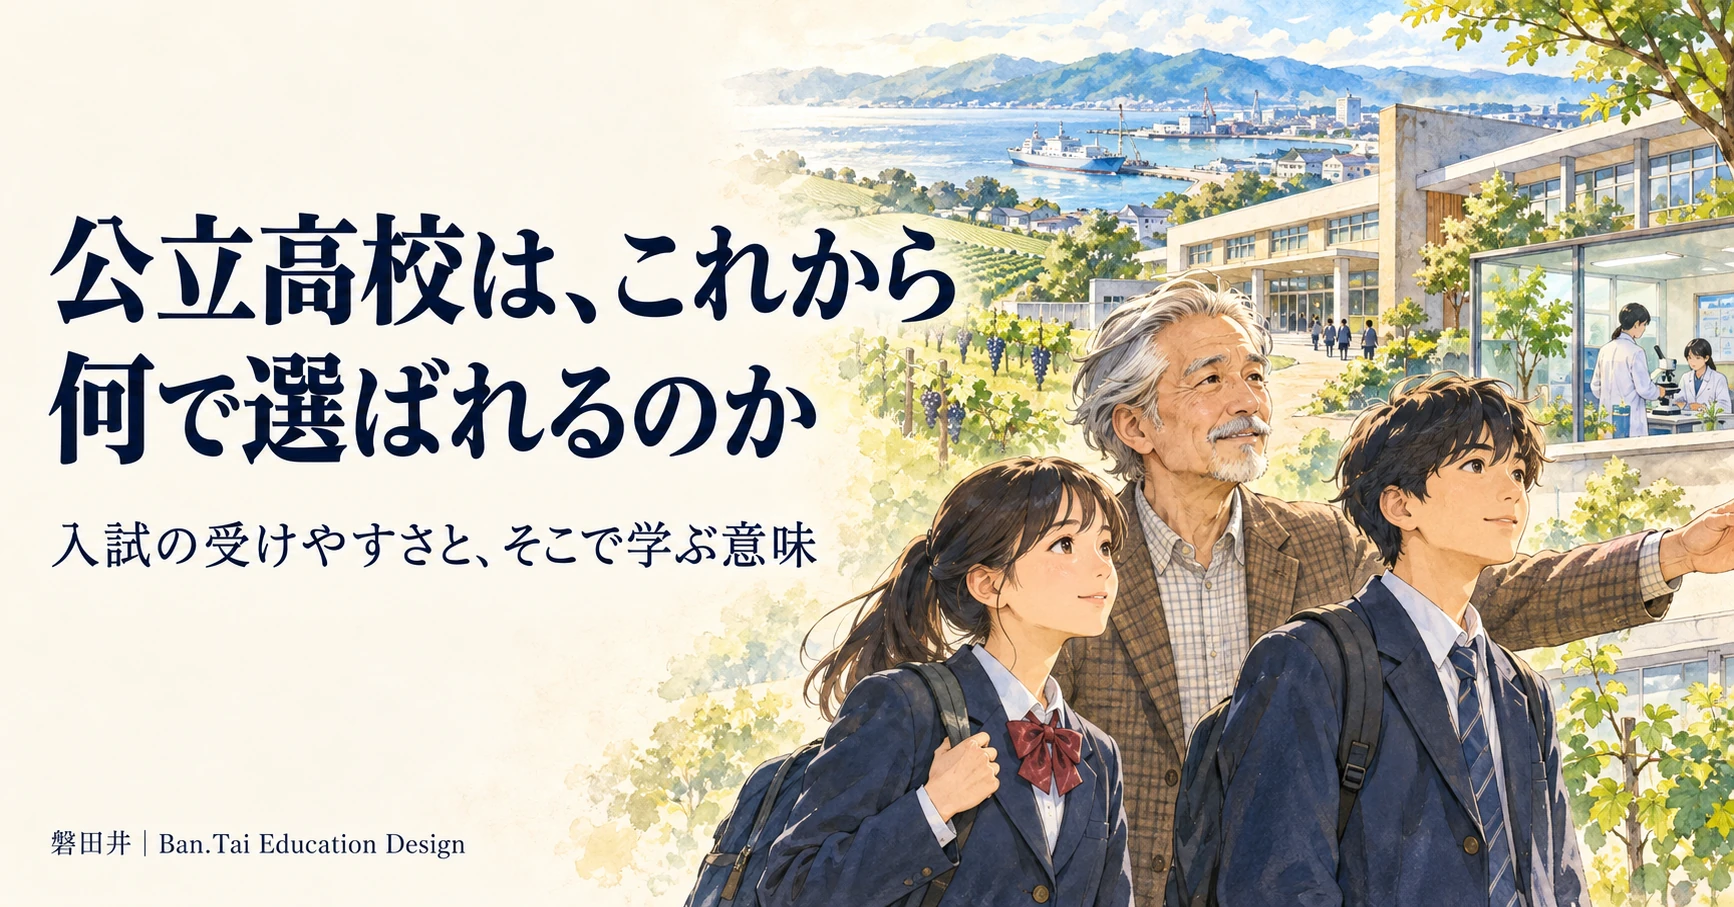
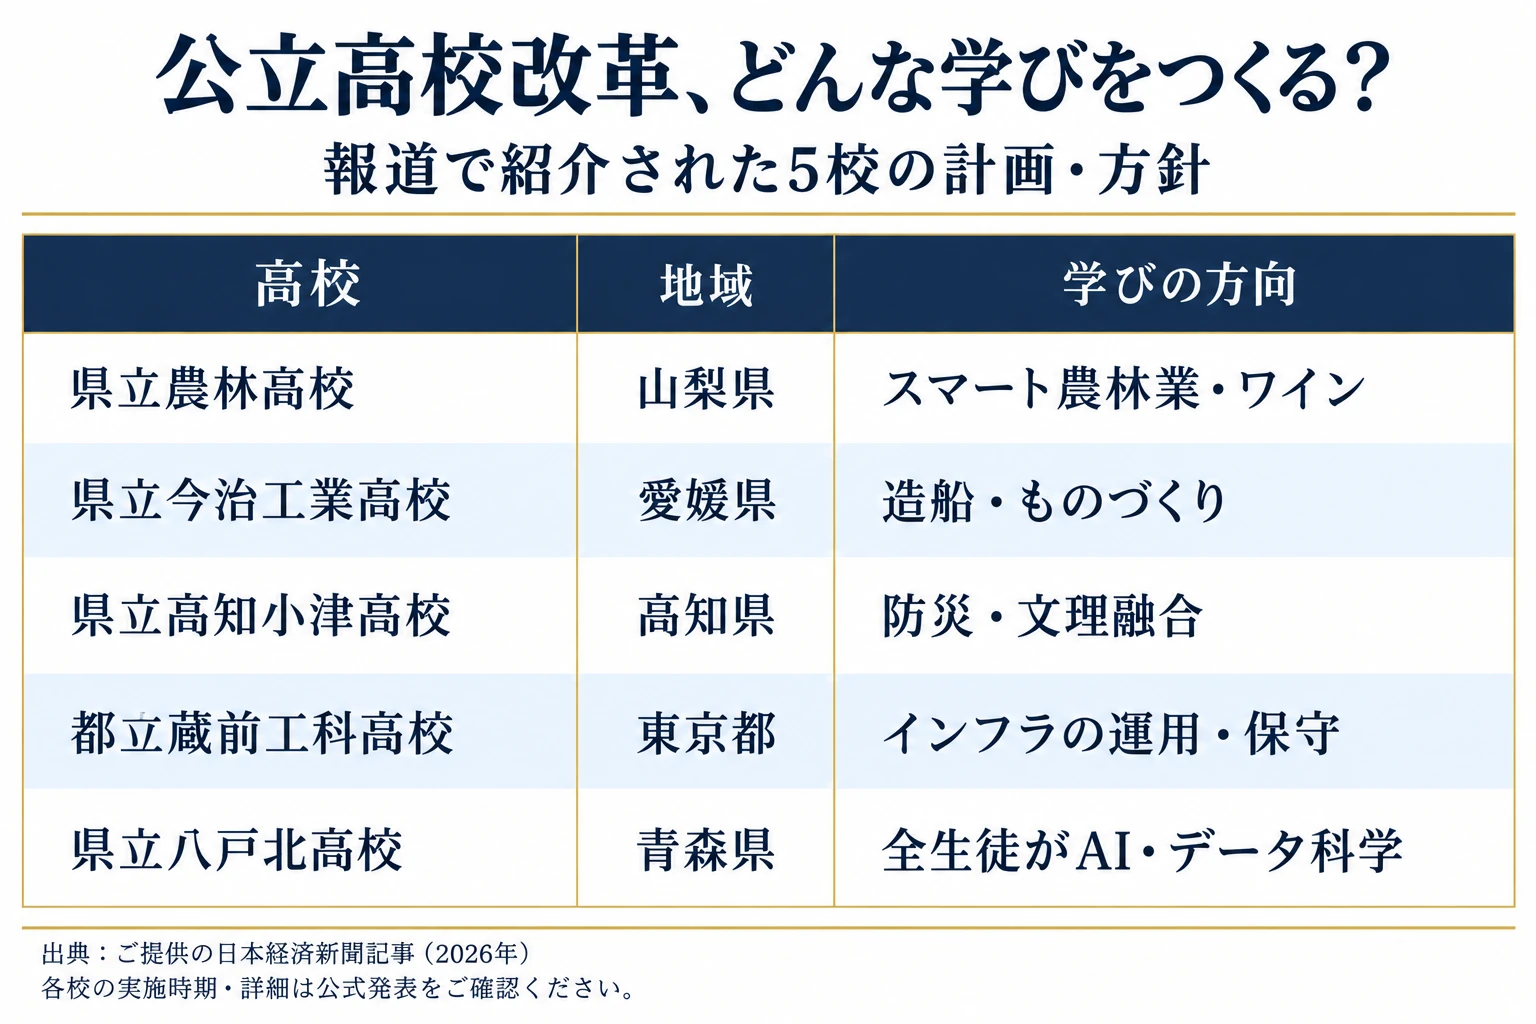
Correct public high school column thumbnail

diff --git a/columns/public-high-school-choice-20261030/index.html b/columns/public-high-school-choice-20261030/index.html
@@ -4,7 +4,7 @@
 <meta property="og:type" content="article"><meta property="og:title" content="公立高校は、これから何で選ばれるのか"><meta property="og:description" content="高校授業料無償化を背景に進む公立高校の入試制度と学びの改革。受けやすさだけでなく、地域で学ぶ意味や費用、支援、進路から高校選びを考えます。"><meta property="og:url" content="https://bantai-education-design.github.io/columns/public-high-school-choice-20261030/"><meta property="og:image" content="https://bantai-education-design.github.io/assets/images/columns/public-high-school-choice-thumbnail.webp">
 <meta name="twitter:card" content="summary_large_image"><meta name="twitter:title" content="公立高校は、これから何で選ばれるのか"><meta name="twitter:description" content="高校授業料無償化を背景に進む公立高校の入試制度と学びの改革。受けやすさだけでなく、地域で学ぶ意味や費用、支援、進路から高校選びを考えます。"><meta name="twitter:image" content="https://bantai-education-design.github.io/assets/images/columns/public-high-school-choice-thumbnail.webp">
 <link rel="stylesheet" href="/assets/style.css"><style>*{box-sizing:border-box}body{margin:0;background:#faf8f3;color:#243041;font-family:system-ui,-apple-system,"Noto Sans JP",sans-serif}main{max-width:960px;margin:auto;padding:30px 22px 72px;line-height:2}h1{font-size:clamp(1.65rem,3.5vw,2.5rem);line-height:1.5;margin:24px 0 4px}h2{margin-top:2.1em;font-size:clamp(1.3rem,2.8vw,1.8rem);line-height:1.55}h3{margin-top:1.5em}a{color:#175c9a;overflow-wrap:anywhere}.subtitle{font-size:1.15rem;color:#5c6672;margin-top:0}.meta{color:#606773;font-size:.9rem}.article-paragraph{margin:1.15em 0;overflow-wrap:anywhere}figure{margin:30px 0}figure img,.hero{display:block;width:100%;height:auto;border-radius:10px}figcaption{font-size:.85rem;line-height:1.7;color:#626a73;margin-top:10px}.table-wrap{overflow-x:auto;margin:24px 0;border:1px solid #d7d9d5;border-radius:8px;background:white}table{width:100%;border-collapse:collapse;line-height:1.7}th,td{padding:12px 14px;text-align:left;vertical-align:top;border-bottom:1px solid #e1e3df}th{background:#193654;color:#fff}tr:last-child td{border-bottom:0}.timeline{padding-left:1.4em}.timeline li{margin:8px 0}.sources{margin-top:40px;padding:20px;background:#eef1ed;border-radius:10px;font-size:.92rem;line-height:1.9}.sources h2{font-size:1.1rem;margin:0 0 12px}.sources ul{padding-left:1.4em}.byline{margin-top:2.3em}@media(max-width:560px){main{padding:18px 16px 50px}th,td{padding:9px 10px;font-size:.9rem}}</style></head>
-<body><main><p><a href="/columns/">← コラム一覧へ戻る</a></p><img class="hero" src="/assets/images/columns/public-high-school-choice-thumbnail.webp" alt="公立高校は、これから何で選ばれるのか。入試の受けやすさとそこで学ぶ意味を考えるコラムのサムネイル" width="1536" height="1024"><h1>公立高校は、これから何で選ばれるのか</h1><p class="subtitle">「入試の受けやすさ」と「そこで学ぶ意味」を考える</p><p class="meta">2026年10月30日｜教育動向</p>
+<body><main><p><a href="/columns/">← コラム一覧へ戻る</a></p><img class="hero" src="/assets/images/columns/public-high-school-choice-thumbnail.webp" alt="公立高校は、これから何で選ばれるのか。高校生と教員が地域の学校を見学する風景を描いたタイトル画像" width="1734" height="907"><h1>公立高校は、これから何で選ばれるのか</h1><p class="subtitle">「入試の受けやすさ」と「そこで学ぶ意味」を考える</p><p class="meta">2026年10月30日｜教育動向</p>
 <p class="article-paragraph">高校を選ぶとき、何を大切にするでしょうか。</p>
 <p class="article-paragraph">学費、通学時間、学力、部活動、学校の雰囲気。そして、卒業後の進路。</p>
 <p class="article-paragraph">一つの理由だけで決まるものではありません。子ども自身の希望と、保護者の願いや家計の事情。その間で、何度も話し合いながら決めていくのだと思います。</p>
